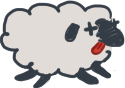
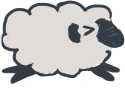
fix: crashing hurts and makes you woozy!

diff --git a/src/pet.py b/src/pet.py
@@ -96,6 +96,36 @@ class Pet(pygame.sprite.Sprite):
         self.ouch_left = [
             pygame.transform.flip(img, True, False) for img in self.ouch_right
         ]
+        self.crash_right = [
+            pygame.transform.scale(pygame.image.load("graphics/sheep/crash_1.png").convert_alpha(), scale),
+            pygame.transform.scale(pygame.image.load("graphics/sheep/crash_2.png").convert_alpha(), scale)
+        ]
+        self.crash_left = [
+            pygame.transform.flip(img, True, False) for img in self.crash_right
+        ]
+        self.crash_right = [
+            pygame.transform.scale(pygame.image.load("graphics/sheep/crash_1.png").convert_alpha(), scale),
+            pygame.transform.scale(pygame.image.load("graphics/sheep/crash_2.png").convert_alpha(), scale)
+        ]
+        self.crash_left = [
+            pygame.transform.flip(img, True, False) for img in self.crash_right
+        ]
+        self.crashland_right  = [
+            pygame.transform.scale(pygame.image.load("graphics/sheep/crashland_1.png").convert_alpha(), scale),
+            pygame.transform.scale(pygame.image.load("graphics/sheep/crashland_2.png").convert_alpha(), scale),
+            pygame.transform.scale(pygame.image.load("graphics/sheep/crashland_3.png").convert_alpha(), scale)
+        ]
+        self.crashland_left = [
+            pygame.transform.flip(img, True, False) for img in self.crashland_right
+        ]
+        self.dizzy_right = [
+            pygame.transform.scale(pygame.image.load("graphics/sheep/crashland_3.png").convert_alpha(), scale),
+            pygame.transform.scale(pygame.image.load("graphics/sheep/crashland_4.png").convert_alpha(), scale)
+        ]
+        self.dizzy_left = [
+            pygame.transform.flip(img, True, False) for img in self.dizzy_right
+        ]
+
         # frame 
         self.frame = 0
         self.frame_timer = 0
@@ -109,7 +139,7 @@ class Pet(pygame.sprite.Sprite):
         self.walk_speed = 1 * self.direction
 
         # run
-        self.run_chance = 0.2
+        self.run_chance = 0.5
         self.acc = 0.1 * self.direction
         self.max_speed = 10
         self.knockback_x = 3 * self.direction
@@ -174,6 +204,10 @@ class Pet(pygame.sprite.Sprite):
             self.pee()
         elif self.state == "ouch":
             self.ouch()
+        elif self.state == "crashland":
+            self.crashland()
+        elif self.state == "dizzy":
+            self.dizzy()
 
     def idle(self):
         self.animate("idle", 20)
@@ -183,7 +217,9 @@ class Pet(pygame.sprite.Sprite):
             if random.random() < self.run_chance:  # chance to run
                 next_state = "run"
             elif random.random() < 0.1:
-                next_state = "lay"
+                self.frame = 0
+                self.state = "lay"
+                return
             elif random.random() < 0.06:
                 self.frame = 0
                 self.action_timer = pygame.time.get_ticks() + random.randint(3000, 8000)
@@ -305,7 +341,7 @@ class Pet(pygame.sprite.Sprite):
     def crash(self, platforms):
         self.vy += self.gravity
         self.move()
-
+        self.animate("crash", 20)
         if self.rect.top < 0: # hit the top of the window
             self.rect.top = 0
             self.vy = self.vy * -1
@@ -314,9 +350,9 @@ class Pet(pygame.sprite.Sprite):
         platform_check = self.has_support(platforms)
         if platform_check[0]:
             self.rect.bottom = platform_check[1]
-            self.set_idle(300,5000)
+            self.frame = 0
+            self.state = "crashland"
             return
-
 
         # collisions
         if self.border_collision(self.bounce_x):
@@ -338,6 +374,18 @@ class Pet(pygame.sprite.Sprite):
                     self.vx  = abs(self.vx)
                     return
                 
+    def crashland(self):
+        self.animate("crashland", 5)
+        if self.frame == len(self.crashland_right) - 1:
+            self.action_timer = pygame.time.get_ticks() + random.randint(2000, 4000)
+            self.state = "dizzy"
+            return 
+     
+    def dizzy(self):
+        self.animate("dizzy", 20)
+        if self.action_timer < pygame.time.get_ticks():
+            self.set_idle(300,5000)
+
     def bounce_x(self, dir):
         self.vx = abs(self.vx) * dir
 

diff --git a/src/main.py b/src/main.py
@@ -95,8 +95,7 @@ def debug_platforms():
 
 def sheep_rectangles():
     for sheep in pet_group:
-        #pygame.draw.rect(WINDOW,(0, 100, 0), sheep.rect)
-        pygame.draw.rect(WINDOW,(0, 0, 100), sheep.hitbox)
+        pygame.draw.rect(WINDOW,(0, 100, 0), sheep.rect)
 
 while running:
     clock.tick(FPS)
